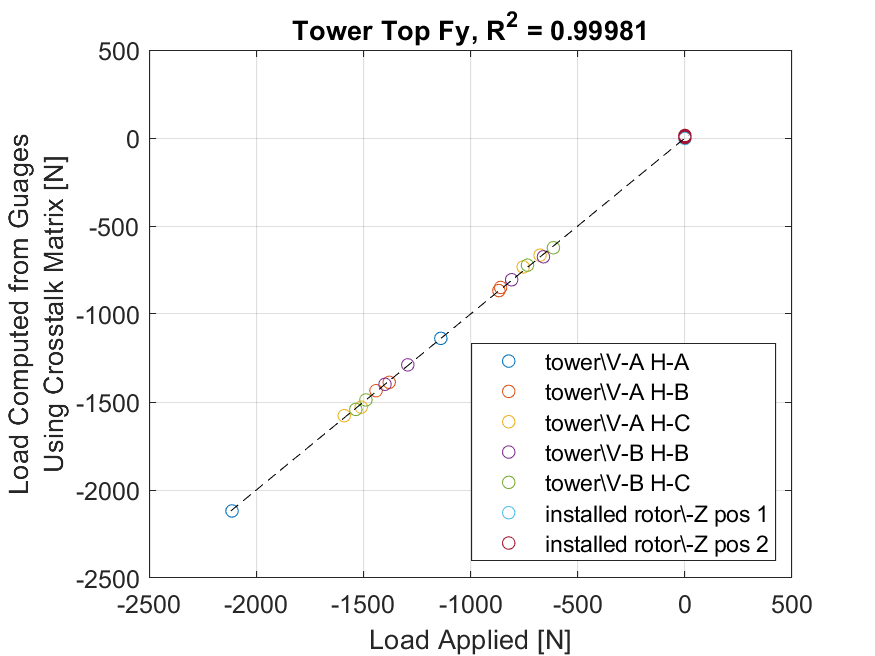
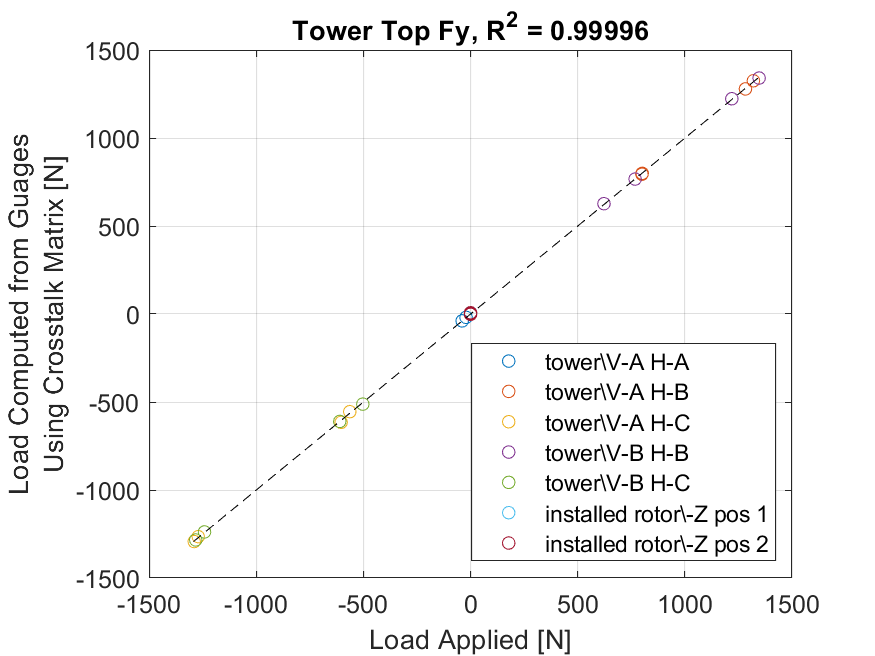
Fixed major geometry bug
Moments used the wrong distance and theta definition was inconsistent.

Moment arms still need to be re-visited since moments are not sufficiently collapsing with crosstalk correction

diff --git a/processing/implementations/10m_Spanish_Fork_testing/Calibrations/Inputs/Tower Top/calibration_matrix_inputs__tower_top_pulls.m b/processing/implementations/10m_Spanish_Fork_testing/Calibrations/Inputs/Tower Top/calibration_matrix_inputs__tower_top_pulls.m
@@ -3,7 +3,7 @@ function [calib,crosstalk] = calibration_matrix_inputs__tower_top_pulls(consts)
 tol = 0.2; % Tolerance for comparison of solutions between pairs of guy wire foundations for plumb bob location[m]
 
 %% Crosstalk grouping high level info
-crosstalk.loads_names = {'Tower_Top_Fx','Tower_Top_Fy','Tower_Top_Mx','Tower_Top_My','Rotor_Torque'}; % Names of physical loads of intrest which are applied during calibrations
+crosstalk.loads_names = {'Tower_Top_Fx','Tower_Top_Fy','Tower_Top_Mx','Tower_Top_My'}; % Names of physical loads of intrest which are applied during calibrations
 crosstalk.channel_names = {'Upper GW N','Upper GW S','Upper GW E','Upper GW W',...
     'Lower GW N','Lower GW S','Lower GW E','Lower GW W',...
     'Torque Arm Left','Torque Arm Right','Nacelle Bending A','Nacelle Bending B'}; % Names of load channels of intrest
@@ -15,13 +15,14 @@ calibNum = calibNum + 1;
 calib(calibNum).folder = 'tower\V-A_H-A';
 
 % % Manually recorded information
-horz_angle = [0.8, 0.8];
+horiz_angle = [0.8, 0.8];
 manual_applied_loads = [0, 0; 2116, 2111; 1132, 1146; 0, 0];
 coordinate = [consts.foundation.S_GW__NE_bolt(1), 0] + [2*12, -5]*consts.units.inch_to_m;
 
 % Calculated inputs
 theta = repmat(atan2(coordinate(2), coordinate(1))*180/pi,1,2);
-calib(calibNum).applied_load_scaling = cosd(horz_angle).*[sind(theta); cosd(theta); sind(theta)*consts.heights.tower_top; cosd(theta)*consts.heights.tower_top; zeros(size(theta))];
+moment_arm = sqrt(coordinate(1).^2+coordinate(2).^2)*tand(horiz_angle);
+calib(calibNum).applied_load_scaling = cosd(horiz_angle).*[cosd(theta); sind(theta); cosd(theta).*moment_arm; sind(theta).*moment_arm];
 calib(calibNum).corrections.load = [(1:length(manual_applied_loads))', mean(manual_applied_loads,2)];
 
 %% V-A, H-B
@@ -32,12 +33,13 @@ calib(calibNum).folder = 'tower\V-A_H-B';
 E_GW_dist = [39*12 + 11, 40*12 + 1, 40*12 + 3, 40*12 + 4]*consts.units.inch_to_m;
 S_GW_dist = [16*12 + 6, 16*12 + 5.5, 16*12 + 7, 16*12 + 7]*consts.units.inch_to_m;
 W_GW_dist = [16*12 + 9, 16*12 + 7 16*12 + 6, 16*12 + 6.5]*consts.units.inch_to_m;
-horz_angle = [0.5, 0.3, 0.30, 0.50];
+horiz_angle = [0.5, 0.3, 0.30, 0.50];
 manual_applied_loads = [0, 0; 1957, 1951; 1177.5, 1182.5; 0, 0; 1171.2, 1179; 1885, 1882.5; 0, 0];
 
 % Calculated inputs
-theta = get_tower_pull_coordinate(E_GW_dist,S_GW_dist,W_GW_dist,consts.foundation.E_GW__SW_bolt,consts.foundation.S_GW__NW_bolt,consts.foundation.W_GW__SE_bolt,tol);
-calib(calibNum).applied_load_scaling = cosd(horz_angle).*[sind(theta); cosd(theta); sind(theta)*consts.heights.tower_top; cosd(theta)*consts.heights.tower_top; zeros(size(theta))];
+[R, theta] = get_tower_pull_coordinate(E_GW_dist,S_GW_dist,W_GW_dist,consts.foundation.E_GW__SW_bolt,consts.foundation.S_GW__NW_bolt,consts.foundation.W_GW__SE_bolt,tol);
+moment_arm = R.*tand(horiz_angle);
+calib(calibNum).applied_load_scaling = cosd(horiz_angle).*[cosd(theta); sind(theta); cosd(theta).*moment_arm; sind(theta).*moment_arm];
 calib(calibNum).corrections.load = [(1:length(manual_applied_loads))', mean(manual_applied_loads,2)];
 
 %% V-A, H-C
@@ -48,12 +50,13 @@ calib(calibNum).folder = 'tower\V-A_H-C';
 E_GW_dist = [18*12 + 1, 18*12 + 7, 18*12 + 3, 18*12 + 9]*consts.units.inch_to_m;
 S_GW_dist = [15*12 + 7, 15*12 + 1, 15*12 + 7, 15*12 + 6]*consts.units.inch_to_m;
 W_GW_dist = [39*12 + 3, 39*12 + 2, 39*12 + 1, 39*12 + 1]*consts.units.inch_to_m;
-horz_angle = [2.8, 2.8, 2.1, 3];
+horiz_angle = [2.8, 2.8, 2.1, 3];
 manual_applied_loads = [0, 0; 0, 0; 1976.5, 1975.5; 965.5, 969.5; 0, 0; 0, 0; 880.5, 880.5; 2049, 2050; 0, 0];
 
 % Calculated inputs
-theta = get_tower_pull_coordinate(E_GW_dist,S_GW_dist,W_GW_dist,consts.foundation.E_GW__SW_bolt,consts.foundation.S_GW__NE_bolt,consts.foundation.W_GW__SE_bolt,tol);
-calib(calibNum).applied_load_scaling = cosd(horz_angle).*[sind(theta); cosd(theta); sind(theta)*consts.heights.tower_top; cosd(theta)*consts.heights.tower_top; zeros(size(theta))];
+[R, theta] = get_tower_pull_coordinate(E_GW_dist,S_GW_dist,W_GW_dist,consts.foundation.E_GW__SW_bolt,consts.foundation.S_GW__NE_bolt,consts.foundation.W_GW__SE_bolt,tol);
+moment_arm = R.*tand(horiz_angle);
+calib(calibNum).applied_load_scaling = cosd(horiz_angle).*[cosd(theta); sind(theta); cosd(theta).*moment_arm; sind(theta).*moment_arm];
 calib(calibNum).corrections.load = [(1:length(manual_applied_loads))', mean(manual_applied_loads,2)];
 
 %% V-B, H-B
@@ -64,13 +67,14 @@ calib(calibNum).folder = 'tower\V-B_H-B';
 E_GW_dist = [42*12 + 4, 42*12 + 5, 42*12 + 11, 43*12]*consts.units.inch_to_m;
 S_GW_dist = [17*12 + 2, 17*12 + 2.5, 17*12 + 3.5, 17*12 + 7]*consts.units.inch_to_m;
 W_GW_dist = [16*12 + 11, 16*12 + 11.5, 16*12 + 10.5, 16*12 + 11]*consts.units.inch_to_m;
-horz_angle = [(-9.3+-10.6)/2, (-10.1+-11.5)/2,...
+horiz_angle = [(-9.3+-10.6)/2, (-10.1+-11.5)/2,...
     (-10.4+-11.0)/2, (-9.1+-9.1)/2];
 manual_applied_loads = [0, 0; 1804, 1804; 924, 923; 0, 0; 1133, 1136; 1969, 1964; 0, 0];
 
 % Calculated inputs
-theta = get_tower_pull_coordinate(E_GW_dist,S_GW_dist,W_GW_dist,consts.foundation.E_GW__SW_bolt,consts.foundation.S_GW__NW_bolt,consts.foundation.W_GW__SE_bolt,tol);
-calib(calibNum).applied_load_scaling = cosd(horz_angle).*[sind(theta); cosd(theta); sind(theta)*consts.heights.tower_top; cosd(theta)*consts.heights.tower_top; zeros(size(theta))];
+[R, theta] = get_tower_pull_coordinate(E_GW_dist,S_GW_dist,W_GW_dist,consts.foundation.E_GW__SW_bolt,consts.foundation.S_GW__NW_bolt,consts.foundation.W_GW__SE_bolt,tol);
+moment_arm = (consts.hub_height - consts.heights.tower_top) + R.*tand(horiz_angle);
+calib(calibNum).applied_load_scaling = cosd(horiz_angle).*[cosd(theta); sind(theta); cosd(theta).*moment_arm; sind(theta).*moment_arm];
 calib(calibNum).corrections.load = [(1:length(manual_applied_loads))', mean(manual_applied_loads,2)];
 
 %% V-B, H-C
@@ -81,12 +85,13 @@ calib(calibNum).folder = 'tower\V-B_H-C';
 E_GW_dist = [18*12 + 0, 18*12 + 1, 18*12 + 0, 17*12 + 11]*consts.units.inch_to_m;
 S_GW_dist = [15*12 + 6.5, 15*12 + 4, 15*12 + 6, 15*12 + 6]*consts.units.inch_to_m;
 W_GW_dist = [37*12 + 10, 37*12 + 5, 37*12 + 8, 37*12 + 7]*consts.units.inch_to_m;
-horz_angle = [-11.9, -12.3, -11.8, -11.9];
+horiz_angle = [-11.9, -12.3, -11.8, -11.9];
 manual_applied_loads = [0, 0; 1982, 1979; 815, 808.5; 0, 0; 975, 976; 2043.5, 2045; 0, 0];
 
 % Calculated inputs
-theta = get_tower_pull_coordinate(E_GW_dist,S_GW_dist,W_GW_dist,consts.foundation.E_GW__SW_bolt,consts.foundation.S_GW__NE_bolt,consts.foundation.W_GW__SE_bolt,tol);
-calib(calibNum).applied_load_scaling = cosd(horz_angle).*[sind(theta); cosd(theta); sind(theta)*consts.heights.tower_top; cosd(theta)*consts.heights.tower_top; zeros(size(theta))];
+[R, theta] = get_tower_pull_coordinate(E_GW_dist,S_GW_dist,W_GW_dist,consts.foundation.E_GW__SW_bolt,consts.foundation.S_GW__NE_bolt,consts.foundation.W_GW__SE_bolt,tol);
+moment_arm = (consts.hub_height - consts.heights.tower_top) + R.*tand(horiz_angle);
+calib(calibNum).applied_load_scaling = cosd(horiz_angle).*[cosd(theta); sind(theta); cosd(theta).*moment_arm; sind(theta).*moment_arm];
 calib(calibNum).corrections.load = [(1:length(manual_applied_loads))', mean(manual_applied_loads,2)];
 
 %% -Z_pos_1
@@ -99,8 +104,9 @@ S_GW_dist = (18*12 + 9)*consts.units.inch_to_m;
 W_GW_dist = (14*12 + 2)*consts.units.inch_to_m;
 
 % Calculated inputs
-theta = get_tower_pull_coordinate(N_GW_dist,S_GW_dist,W_GW_dist,consts.foundation.N_GW__SW_bolt,consts.foundation.S_GW__NW_bolt,consts.foundation.W_GW__SE_bolt,tol);
-calib(calibNum).applied_load_scaling = [0; 0; sind(theta)*consts.rotor.radius; cosd(theta)*consts.rotor.radius; zeros(size(theta))];
+[~, theta] = get_tower_pull_coordinate(N_GW_dist,S_GW_dist,W_GW_dist,consts.foundation.N_GW__SW_bolt,consts.foundation.S_GW__NW_bolt,consts.foundation.W_GW__SE_bolt,tol);
+moment_arm = consts.rotor.radius;
+calib(calibNum).applied_load_scaling = [0; 0; sind(theta)*moment_arm; cosd(theta)*moment_arm];
 
 %% -Z_pos_2
 calibNum = calibNum + 1;
@@ -112,19 +118,7 @@ S_GW_dist = (17*12 + 7)*consts.units.inch_to_m;
 E_GW_dist = (15*12 + 10)*consts.units.inch_to_m;
 
 % Calculated inputs
-theta = get_tower_pull_coordinate(N_GW_dist,S_GW_dist,E_GW_dist,consts.foundation.N_GW__SE_bolt,consts.foundation.S_GW__NE_bolt,consts.foundation.E_GW__SW_bolt,tol);
-calib(calibNum).applied_load_scaling = [0; 0; sind(theta)*consts.rotor.radius; cosd(theta)*consts.rotor.radius; zeros(size(theta))];
+[~, theta] = get_tower_pull_coordinate(N_GW_dist,S_GW_dist,E_GW_dist,consts.foundation.N_GW__SE_bolt,consts.foundation.S_GW__NE_bolt,consts.foundation.E_GW__SW_bolt,tol);
+moment_arm = consts.rotor.radius;
+calib(calibNum).applied_load_scaling = [0; 0; sind(theta)*moment_arm; cosd(theta)*moment_arm];
 
-% %% Rotor torque, -X
-% calibNum = calibNum + 1;
-% calib(calibNum).folder = 'installed_rotor\-X';
-% 
-% % Calculated inputs
-% calib(calibNum).applied_load_scaling = [0; 0; 0; 0; -cosd(consts.blade.pitch_30)*consts.rotor.radius*consts.units.lbf_to_N];
-% 
-% %% Rotor torque, +X
-% calibNum = calibNum + 1;
-% calib(calibNum).folder = 'installed_rotor\+X';
-% 
-% % Calculated inputs
-% calib(calibNum).applied_load_scaling = [0; 0; 0; 0; cosd(consts.blade.pitch_30)*consts.rotor.radius*consts.units.lbf_to_N];

diff --git a/processing/implementations/10m_Spanish_Fork_testing/Calibrations/tower_top_calibration.m b/processing/implementations/10m_Spanish_Fork_testing/Calibrations/tower_top_calibration.m
@@ -20,10 +20,10 @@ count = count + 1;
 [calib,crosstalk] = calibration_matrix_inputs__tower_top_pulls(consts);
 cal(count) = build_crosstalk_matrix(crosstalk,calib,data_path,data_folder,tdmsPrefix,makePlots,fullfile(savePath,'tower'));
 
-%% Rotor Torque
-count = count + 1;
-[calib,crosstalk] = calibration_matrix_inputs__rotor_torque(consts);
-cal(count) = build_crosstalk_matrix(crosstalk,calib,data_path,data_folder,tdmsPrefix,makePlots,fullfile(savePath,'installed_rotor'));
+% %% Rotor Torque
+% count = count + 1;
+% [calib,crosstalk] = calibration_matrix_inputs__rotor_torque(consts);
+% cal(count) = build_crosstalk_matrix(crosstalk,calib,data_path,data_folder,tdmsPrefix,makePlots,fullfile(savePath,'installed_rotor'));
 
-%% Save
-save(fullfile(savePath,saveName),'cal')
+% %% Save
+% save(fullfile(savePath,saveName),'cal')

diff --git a/processing/implementations/10m_Spanish_Fork_testing/Calibrations/get_tower_pull_coordinate.m b/processing/implementations/10m_Spanish_Fork_testing/Calibrations/get_tower_pull_coordinate.m
@@ -1,4 +1,4 @@
-function theta = get_tower_pull_coordinate(dA,dB,dC,A,B,C,tol)
+function [R, theta] = get_tower_pull_coordinate(dA,dB,dC,A,B,C,tol)
 
 for II = 1:length(dA)
     if isnan(dA(II)) && isnan(dB(II)) && isnan(dC(II))
@@ -10,7 +10,7 @@ for II = 1:length(dA)
 end
 
 theta = atan2(coordinate(:,2), coordinate(:,1))'*180/pi;
-
+R = sqrt(coordinate(:,2).^2+coordinate(:,1).^2)';
 end
 
 function coordinate = get_pull_coordiante_3D(A,B,C,dA,dB,dC,tol)
